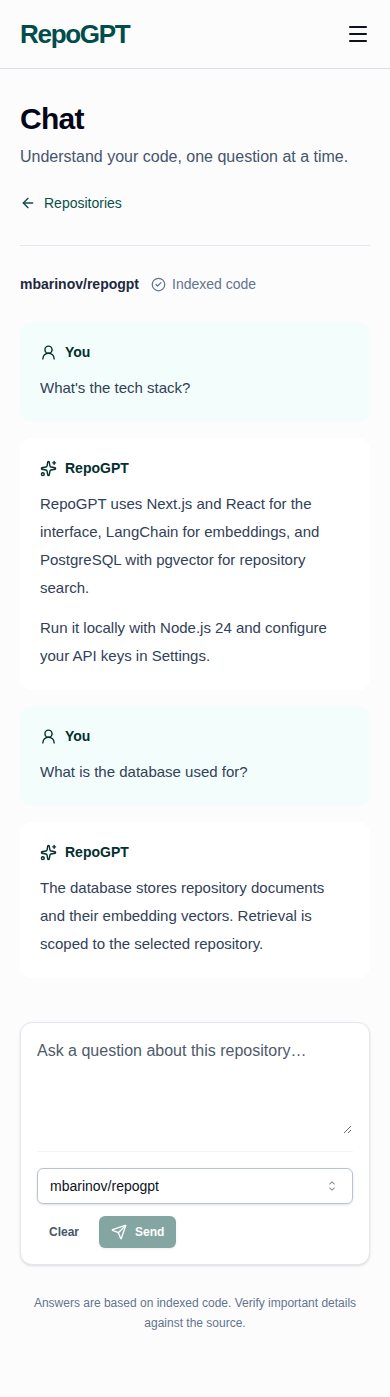
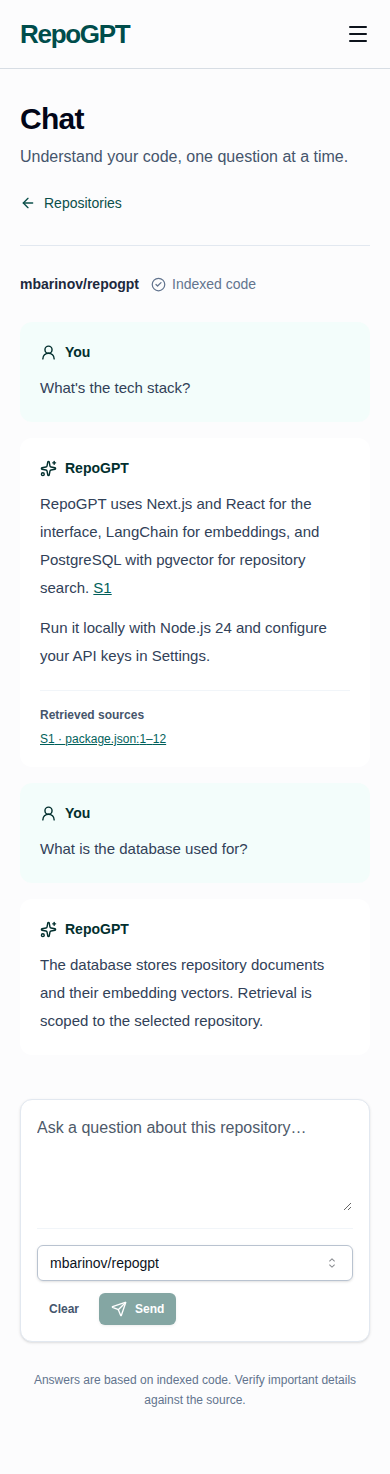
fix: ground citation labels and document verified source-aware chat captures

diff --git a/tests/citations-ui.test.tsx b/tests/citations-ui.test.tsx
@@ -42,3 +42,17 @@ it("explains reindexing for legacy excerpts without fake sources", () => {
   expect(screen.getByText(/Refresh the repository index/)).toBeTruthy();
   expect(screen.queryByRole("link")).toBeNull();
 });
+it("does not use a model-authored location as the label of a trusted citation", () => {
+  render(
+    <Message
+      id="1"
+      role="assistant"
+      content="See [src/fake.ts:999](#source-S1)."
+      sources={[source]}
+    />,
+  );
+  expect(screen.queryByRole("link", { name: "src/fake.ts:999" })).toBeNull();
+  expect(screen.getByRole("link", { name: "S1" }).getAttribute("href")).toBe(
+    source.url,
+  );
+});

diff --git a/src/components/message/index.tsx b/src/components/message/index.tsx
@@ -42,8 +42,13 @@ export function Message({
               );
               // Model-written locations and unknown citation IDs are never clickable evidence.
               return source ? (
-                <a href={source.url} target="_blank" rel="noreferrer">
-                  {children}
+                <a
+                  href={source.url}
+                  target="_blank"
+                  rel="noreferrer"
+                  title={`${source.path}:${source.startLine}–${source.endLine}`}
+                >
+                  {source.id}
                 </a>
               ) : (
                 <span>{children}</span>

diff --git a/tests/e2e/app.spec.ts b/tests/e2e/app.spec.ts
@@ -535,7 +535,7 @@ test("citations use trusted metadata and do not survive clear or repository swit
       body: streamReply(
         isLegacy
           ? "Legacy text without a location."
-          : "Verified [S1](#source-S1). Ignore [unknown](#source-S99) and [fabricated](https://github.com/example/fixture/blob/main/fake.ts).",
+          : "Verified [invented.ts:999](#source-S1). Ignore [unknown](#source-S99) and [fabricated](https://github.com/example/fixture/blob/main/fake.ts).",
         `citations-${requests.length}`,
         isLegacy ? { sources: [], hasLegacySources: true } : sourceFixture,
       ),

diff --git a/docs/ui-verification.md b/docs/ui-verification.md
@@ -2,17 +2,17 @@
 
 These are actual Chromium screenshots of the production Next.js app, not generated mockups.
 
-- Capture commit: `ca63f40c0ca03252901cda9d8f4f94eb633c5670`.
-- CI run: [41499916715](https://github.com/mbarinov/repogpt/actions/runs/41499916715), all stages passed.
-- Artifact: `verification-reports`, ID `13167558368`.
[1 lines of base64/hex data omitted]
+- Capture commit: `156b16f2d615780e664b6be1e299a5ec0e5c2a9b`.
+- CI run: [41518360622](https://github.com/mbarinov/repogpt/actions/runs/41518360622), all stages passed.
+- Artifact: `verification-reports`, ID `13176326830`.
[1 lines of base64/hex data omitted]
 - Browser: Playwright Chromium; desktop CSS viewport 1487 × 1058, mobile 390 × 844; deviceScaleFactor 1. Full-page screenshots preserve scrolling content; modal screenshots capture the viewport.
 - Fixtures: synthetic `example/*` repositories, synthetic configured credentials, mocked streamed model replies. No real GitHub/OpenAI requests or paid API keys.
 - Runtime errors and unexpected browser console errors fail the browser suite.
 
 ## Checks
 
-CI at the capture commit passed dependency installation, Prisma generation and migrations, ESLint, TypeScript, 79 unit/integration tests (including disposable PostgreSQL/pgvector), production build and eight Playwright browser scenarios. The documentation/assets commit reruns the same suite and adds a tablet-width no-overflow assertion; consult the PR's current-head CI for that result.
+CI at the capture commit passed dependency installation, Prisma generation and migrations, ESLint, TypeScript, 121 unit/integration tests (including disposable PostgreSQL/pgvector), production build and nine Playwright browser scenarios. The documentation/assets commit reruns the same suite; consult the PR's current-head CI for that result. Source-citation checks cover server-issued links, unknown-link suppression, legacy warnings and source-state clearing/switching.
 
 The interaction checks cover settings secret non-disclosure and blank-key preservation; import completion, repeated submission, retry and cancel; deletion cancellation/error/success; streaming conversation history and clear; repository states, selection and disabled chat; prompt seeding without submission; mobile navigation and history; failed-refresh warnings with previous-index access; and focus restoration to the actual opener.
 
@@ -20,8 +20,8 @@ The interaction checks cover settings secret non-disclosure and blank-key preser
 
 | File                      | Pixels      | SHA-256                                                            |
 | ------------------------- | ----------- | ------------------------------------------------------------------ |
[7 lines of base64/hex data omitted]

diff --git a/docs/grounded-retrieval.md b/docs/grounded-retrieval.md
@@ -33,7 +33,7 @@ The fixed regression corpus checks function names, paths, error strings, camel/s
 
 ## Citations and trust boundary
 
-The server generates citation IDs and immutable GitHub URLs only from validated retrieved metadata. Source excerpts remain untrusted model input. The model is asked to reference `[S1](#source-S1)`; the UI resolves only IDs supplied by the server. Invented URLs and unknown citation IDs are not clickable source evidence. Model-generated remote images are not fetched.
+The server generates citation IDs and immutable GitHub URLs only from validated retrieved metadata. Source excerpts remain untrusted model input. The model is asked to reference `[S1](#source-S1)`; the UI resolves only IDs supplied by the server. Inline citation labels are also taken from server-issued metadata, not model-authored file names. Invented URLs and unknown citation IDs are not clickable source evidence. Model-generated remote images are not fetched.
 
 “Retrieved sources” means evidence supplied to the model, not a guarantee that every claim in the answer is supported. Users still need to inspect the source. Import/enclosing context is explicitly labeled as outside the cited span.
 
@@ -55,7 +55,7 @@ Tests were written and executed before the corresponding behavior:
 - Initial chunking suite: nine failing cases for semantic boundaries, original lines, import context, oversized symbols, Markdown, legacy metadata and shared budgets; then green.
 - Snapshot loader: two failing commit/tree-resolution tests before implementation; then green.
 - Additional chunking cycle: declaration-only `.d.ts` failure, duplicated import context and large exported declarations reproduced by three red tests, then fixed.
-- Citation/UI cycle: missing helper plus failing tests for invented clickable URLs and absent legacy notice; then green. Additional incomplete-provenance and malformed-Unicode path cases were reproduced and fixed.
+- Citation/UI cycle: missing helper plus failing tests for invented clickable URLs and absent legacy notice; then green. Additional incomplete-provenance, malformed-Unicode path and spoofed citation-label cases were reproduced and fixed.
 - Retrieval cycle: new normalization/fusion tests and old-signature mismatch were red before implementation. Additional same-line deduplication and combined-budget regressions were red before fixes.
 - Real PostgreSQL tests cover atomic rollback/cascade, metadata persistence, old-table migration/backfill, parameterization, repository isolation and the fixed ranking corpus.
 - AI SDK integration exercises real SSE serialization/parsing of server-issued source metadata. Browser scenarios cover link grounding, unknown-link suppression, legacy notices and clearing/switching source state.

diff --git a/design-qa.md b/design-qa.md
@@ -64,4 +64,8 @@ Visible focus indicators, labeled fields, native modal focus containment, semant
 - Optional future refinement: a project-owned font could narrow the small typography difference from the generated reference. No dependency or external font loading was added for this cosmetic detail.
 - Manual assistive-technology and browser matrix testing remain outside this Chromium-backed review.
 
+## Source-citation update
+
+The repository layout remains unchanged. Actual desktop/mobile chat captures from successful CI run [41518360622](https://github.com/mbarinov/repogpt/actions/runs/41518360622), head `156b16f2d615780e664b6be1e299a5ec0e5c2a9b`, were opened and inspected after adding server-issued source links. Citation links and their compact retrieved-source list remain readable and wrap without overflow; clear/switch isolation and unknown-link suppression are browser-tested. The eight non-chat screenshots are byte-identical to the earlier reviewed UI. Updated image hashes are in `docs/ui-verification.md`.
+
 final result: passed
